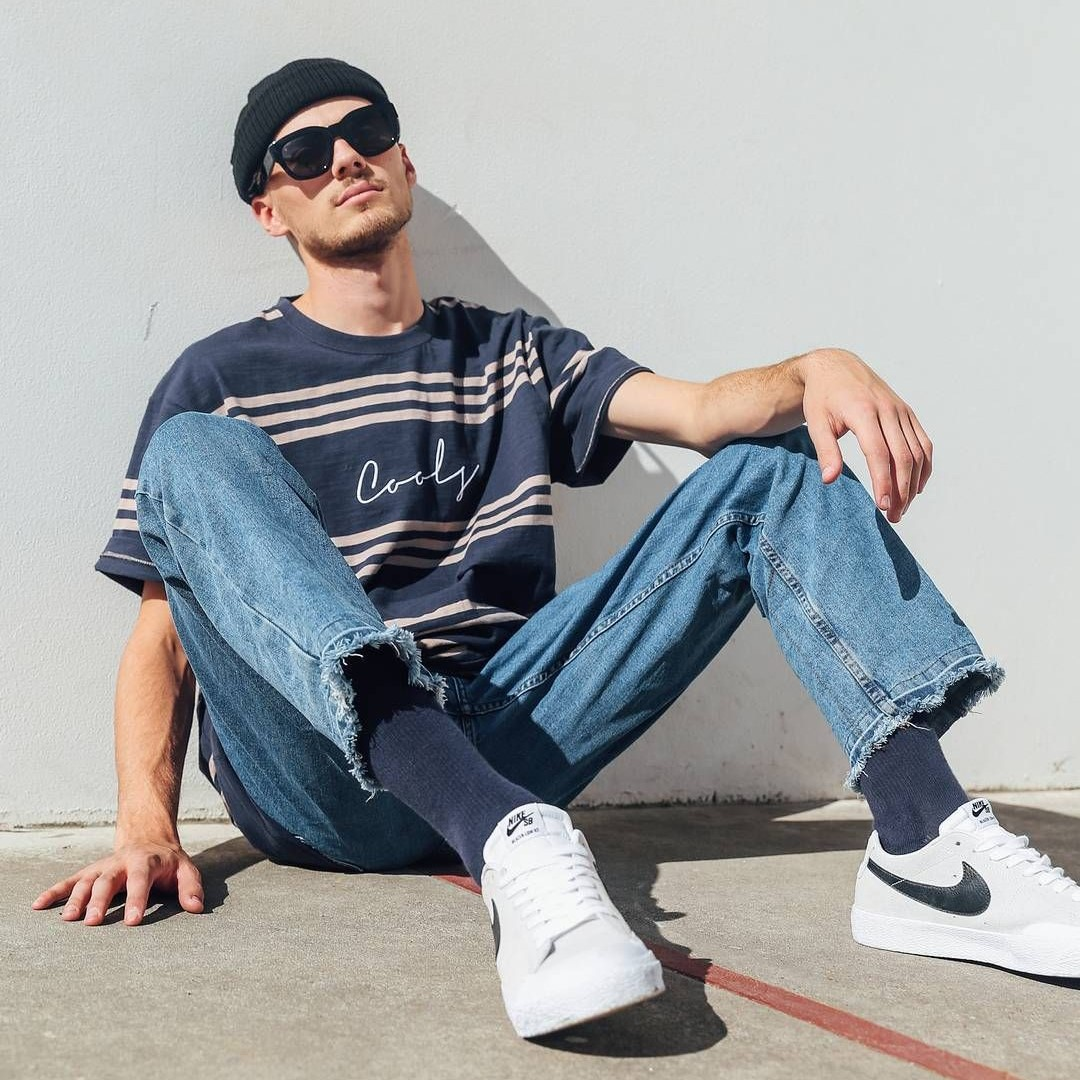
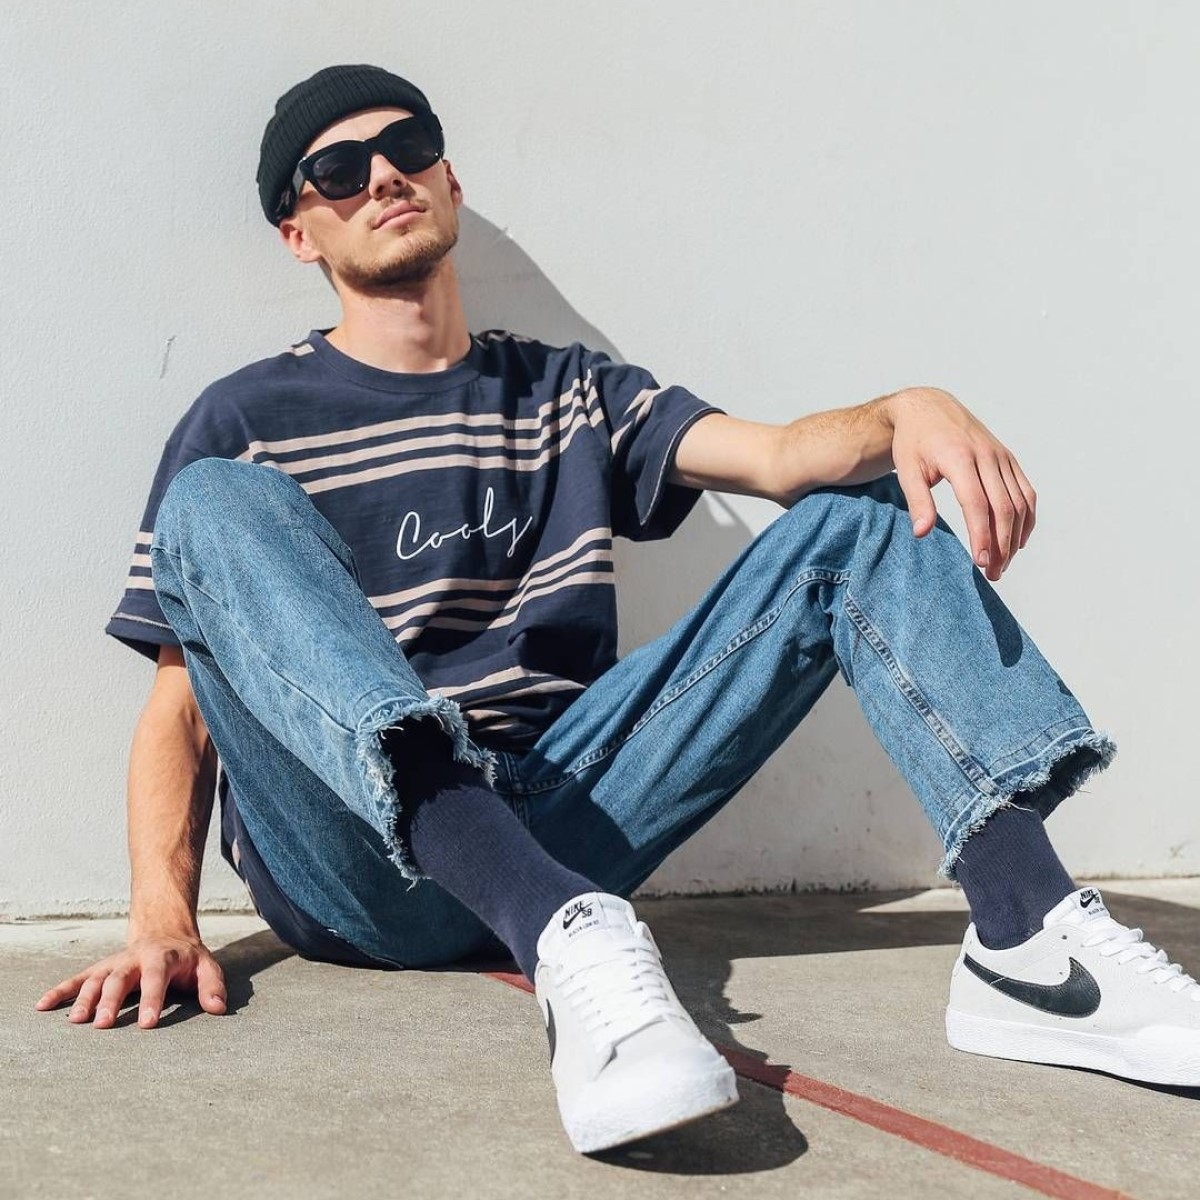
seo y  carrusel

diff --git a/css/estilos.css b/css/estilos.css
@@ -62,10 +62,6 @@ div.dropdown-menu.show a.dropdown-item:hover {
   color: #66fcf1;
 }
 
-#carouselExampleIndicators {
-  height: 100%;
-}
-
 .cuerpo {
   padding-top: 100px;
   display: flex;
@@ -76,6 +72,7 @@ div.dropdown-menu.show a.dropdown-item:hover {
 
 .cuerpo div.container-fluid.carrusel {
   padding: 0;
+  height: 500px;
 }
 
 .cuerpo a.cuerpo__destacados, .cuerpo a.cuerpo__sale {
@@ -172,8 +169,24 @@ div.dropdown-menu.show a.dropdown-item:hover {
 }
 
 img.d-block.w-100 {
-  object-fit: cover;
+  object-fit: scale-down;
   border-radius: 20px;
+  height: 500px;
+}
+
+img.d-block.w-100.carrusel1 {
+  background-image: url(../media/carrusel1mobile.jpg);
+  background-position: center;
+}
+
+img.d-block.w-100.carrusel2 {
+  background-image: url(../media/carrusel2mobile.jpg);
+  background-position: center;
+}
+
+img.d-block.w-100.carrusel3 {
+  background-image: url(../media/carrusel3mobile.jpg);
+  background-position: bottom;
 }
 
 .chat {
@@ -498,9 +511,6 @@ img.d-block.w-100 {
 
 /* MEDIA QUERIES */
 @media all and (min-width: 768px) {
-  .cuerpo div.container-fluid.carrusel {
-    height: 700px;
-  }
   .cuerpo div.container.contenedor-flex {
     flex-direction: row;
   }
@@ -523,8 +533,17 @@ img.d-block.w-100 {
   div.dropdown-menu.show {
     background: #e5e5e5;
   }
-  img.d-block.w-100 {
-    height: 700px;
+  img.d-block.w-100.carrusel1 {
+    background-image: url(../media/carrusel1tablet.jpg);
+    background-position: center;
+  }
+  img.d-block.w-100.carrusel2 {
+    background-image: url(../media/carrusel2tablet.jpg);
+    background-position: center;
+  }
+  img.d-block.w-100.carrusel3 {
+    background-image: url(../media/carrusel3tablet.jpg);
+    background-position: bottom;
   }
 }
 
@@ -535,6 +554,26 @@ img.d-block.w-100 {
   }
   .cuerpo__home--titulos {
     font-size: 3.125rem;
+  }
+  .cuerpo div.container-fluid.carrusel {
+    height: 650px;
+  }
+  img.d-block.w-100 {
+    object-fit: scale-down;
+    border-radius: 20px;
+    height: 650px;
+  }
+  img.d-block.w-100.carrusel1 {
+    background-image: url(../media/carrusel1.jpg);
+    background-position: center;
+  }
+  img.d-block.w-100.carrusel2 {
+    background-image: url(../media/carrusel2.jpg);
+    background-position: center;
+  }
+  img.d-block.w-100.carrusel3 {
+    background-image: url(../media/carrusel3.jpg);
+    background-position: bottom;
   }
 }
 

diff --git a/scss/_media-queries.scss b/scss/_media-queries.scss
@@ -1,8 +1,5 @@
 @media all and (min-width: 768px){
 	.cuerpo{
-		div.container-fluid.carrusel{
-			height:700px
-		}
 		div.container.contenedor-flex{
 			flex-direction: row;
 		}
@@ -26,16 +23,45 @@
 	div.dropdown-menu.show {
 		background: $color-offwhite;
 	}
-	img.d-block.w-100{
-		height: 700px;
+	img.d-block.w-100.carrusel1{
+		background-image: url(../media/carrusel1tablet.jpg);
+        background-position: center;
+	}
+	img.d-block.w-100.carrusel2{
+		background-image: url(../media/carrusel2tablet.jpg);
+        background-position: center;
+	}
+	img.d-block.w-100.carrusel3{
+		background-image: url(../media/carrusel3tablet.jpg);
+        background-position: bottom;
 	}
 }
 @media all and (min-width: 992px){
 	.cuerpo{
 		justify-items: space-between;
 		align-items: center;
+		&__home--titulos{
+			font-size: 3.125rem;
+		}
+		div.container-fluid.carrusel{
+			height:650px
+		}
 	}
-	.cuerpo__home--titulos{
-		font-size: 3.125rem;
+	img.d-block.w-100{
+		object-fit: scale-down;
+		border-radius: 20px;
+		height: 650px;
+		&.carrusel1{
+			background-image: url(../media/carrusel1.jpg);
+			background-position: center;
+		}
+		&.carrusel2{
+			background-image: url(../media/carrusel2.jpg);
+			background-position: center;
+		}
+		&.carrusel3{
+			background-image: url(../media/carrusel3.jpg);
+			background-position: bottom;
+		}
 	}
 }

diff --git a/scss/estilos.scss b/scss/estilos.scss
@@ -41,9 +41,6 @@ div.dropdown-menu.show {
     }
 }
 
-#carouselExampleIndicators{
-    height: 100%;
-}
 
 .cuerpo{
 	padding-top: $padding-header;
@@ -53,6 +50,7 @@ div.dropdown-menu.show {
     width: 100vw;
     div.container-fluid.carrusel{
         padding: 0;
+        height: 500px;
     }
     & a.cuerpo__destacados, a.cuerpo__sale{
         text-decoration: none;
@@ -137,11 +135,24 @@ div.dropdown-menu.show {
     width: 10px;
     height: 10px;
     border-radius: 100%;
-  }
+}
 
 img.d-block.w-100{
-    object-fit: cover;
+    object-fit: scale-down;
     border-radius: 20px;
+    height: 500px;
+    &.carrusel1{
+        background-image: url(../media/carrusel1mobile.jpg);
+        background-position: center;
+    }
+    &.carrusel2{
+        background-image: url(../media/carrusel2mobile.jpg);
+        background-position: center;
+    }
+    &.carrusel3{
+        background-image: url(../media/carrusel3mobile.jpg);
+        background-position: bottom;
+    }
 }
 
 .chat{

diff --git a/index.html b/index.html
@@ -60,13 +60,13 @@
 				</ol>
 				<div class="carousel-inner">
 					<div class="carousel-item active">
-						<img src="media/carrusel1.jpg" class="d-block w-100" alt="...">
+						<img class="d-block w-100 carrusel1">
 					</div>
 					<div class="carousel-item">
-						<img src="media/carrusel2.jpg" class="d-block w-100" alt="...">
+						<img class="d-block w-100 carrusel2">
 					</div>
 					<div class="carousel-item">
-						<img src="media/carrusel3.jpg" class="d-block w-100" alt="...">
+						<img class="d-block w-100 carrusel3"">
 					</div>
 				</div>
 				<a class="carousel-control-prev" href="#carouselExampleIndicators" role="button" data-slide="prev">
